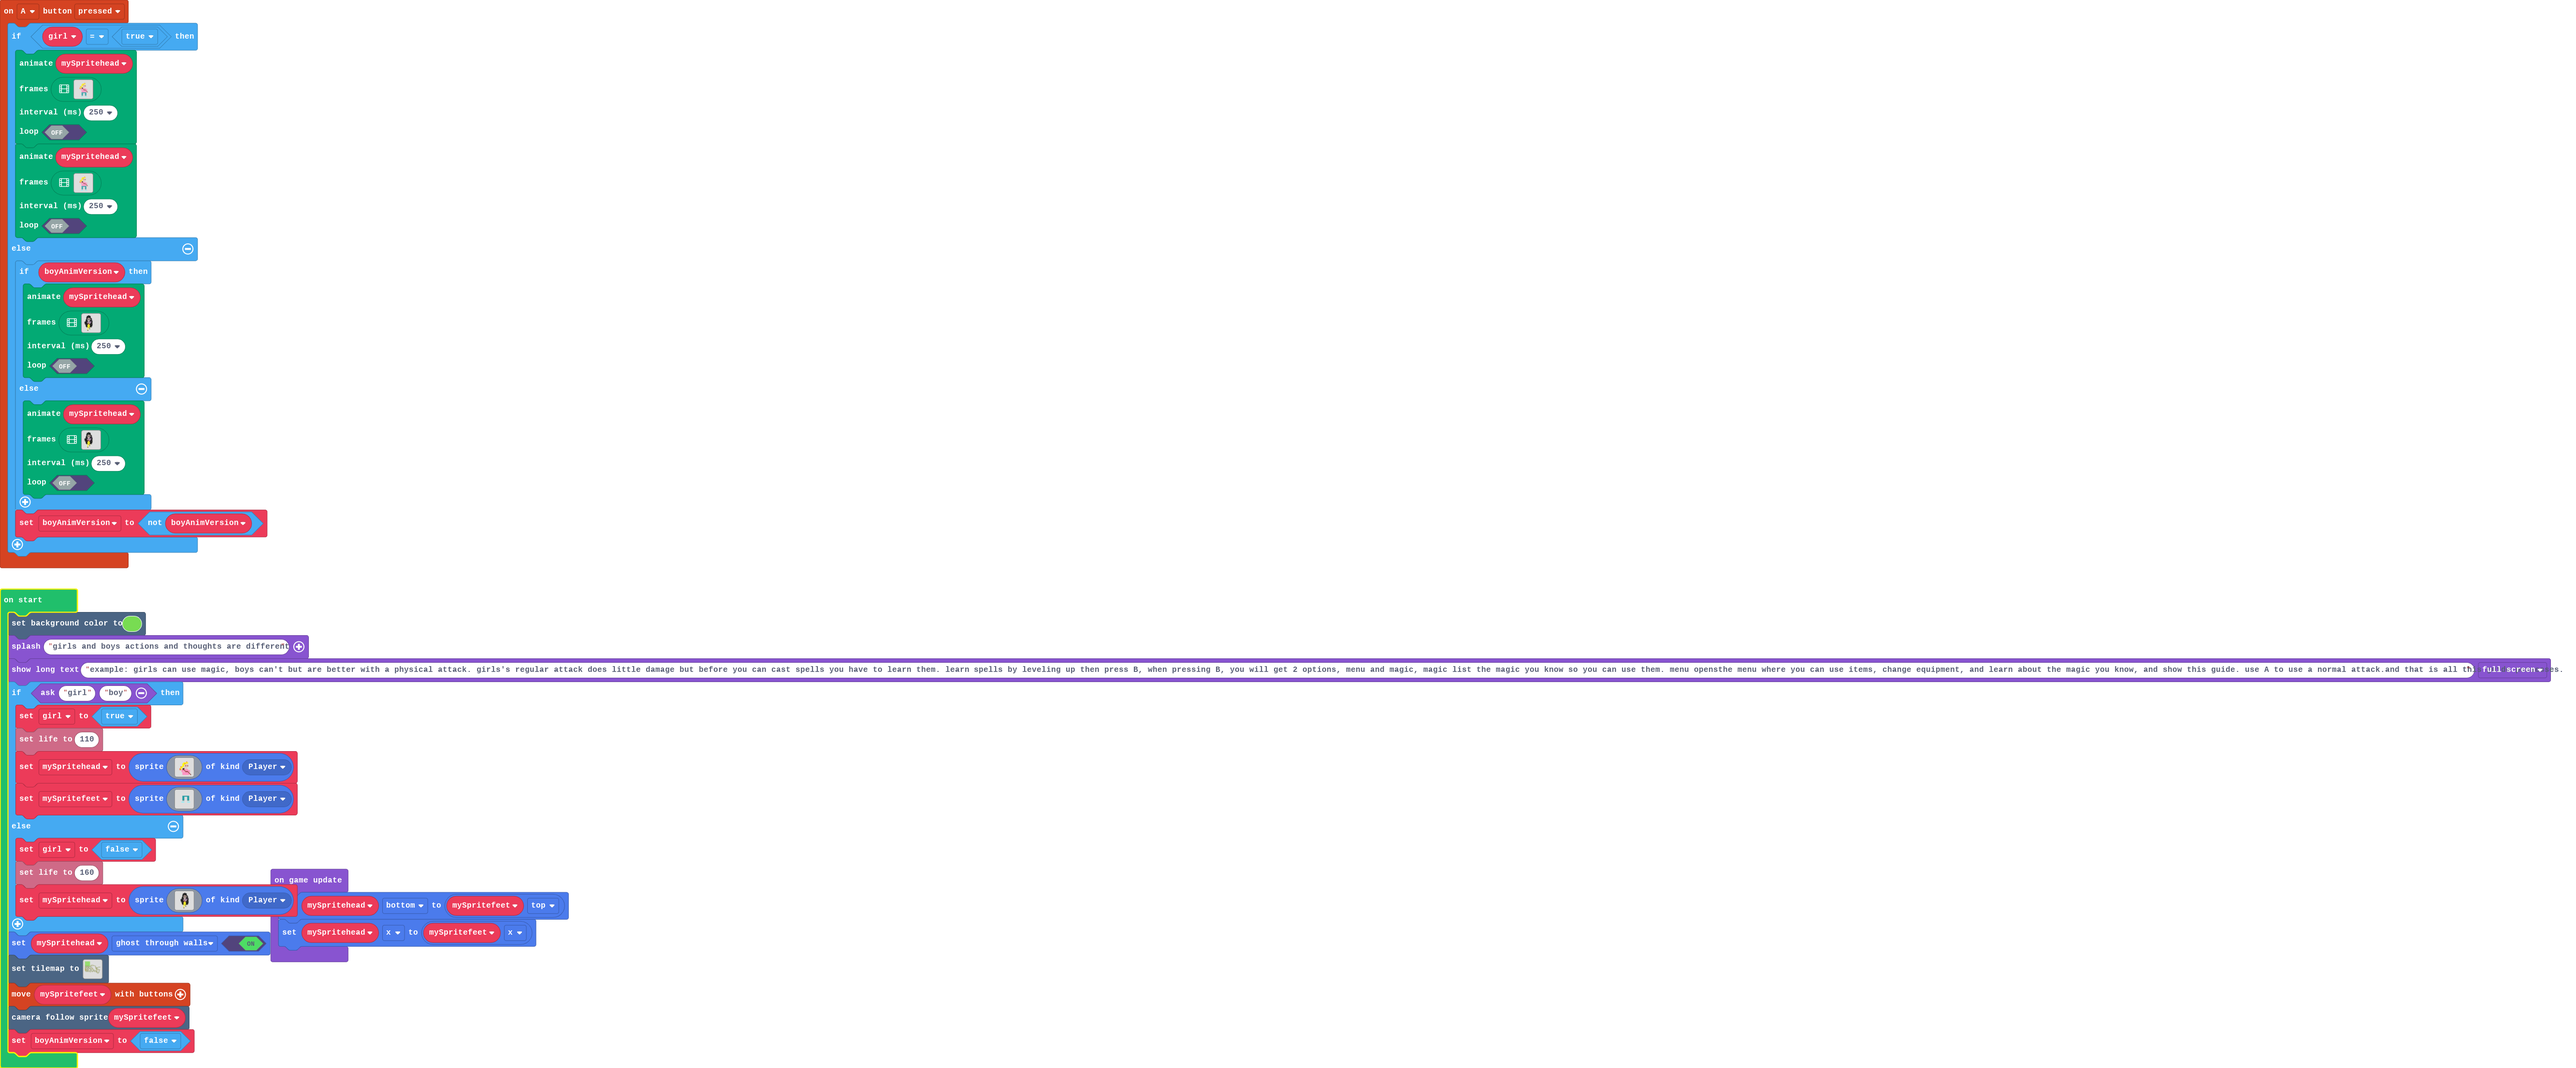
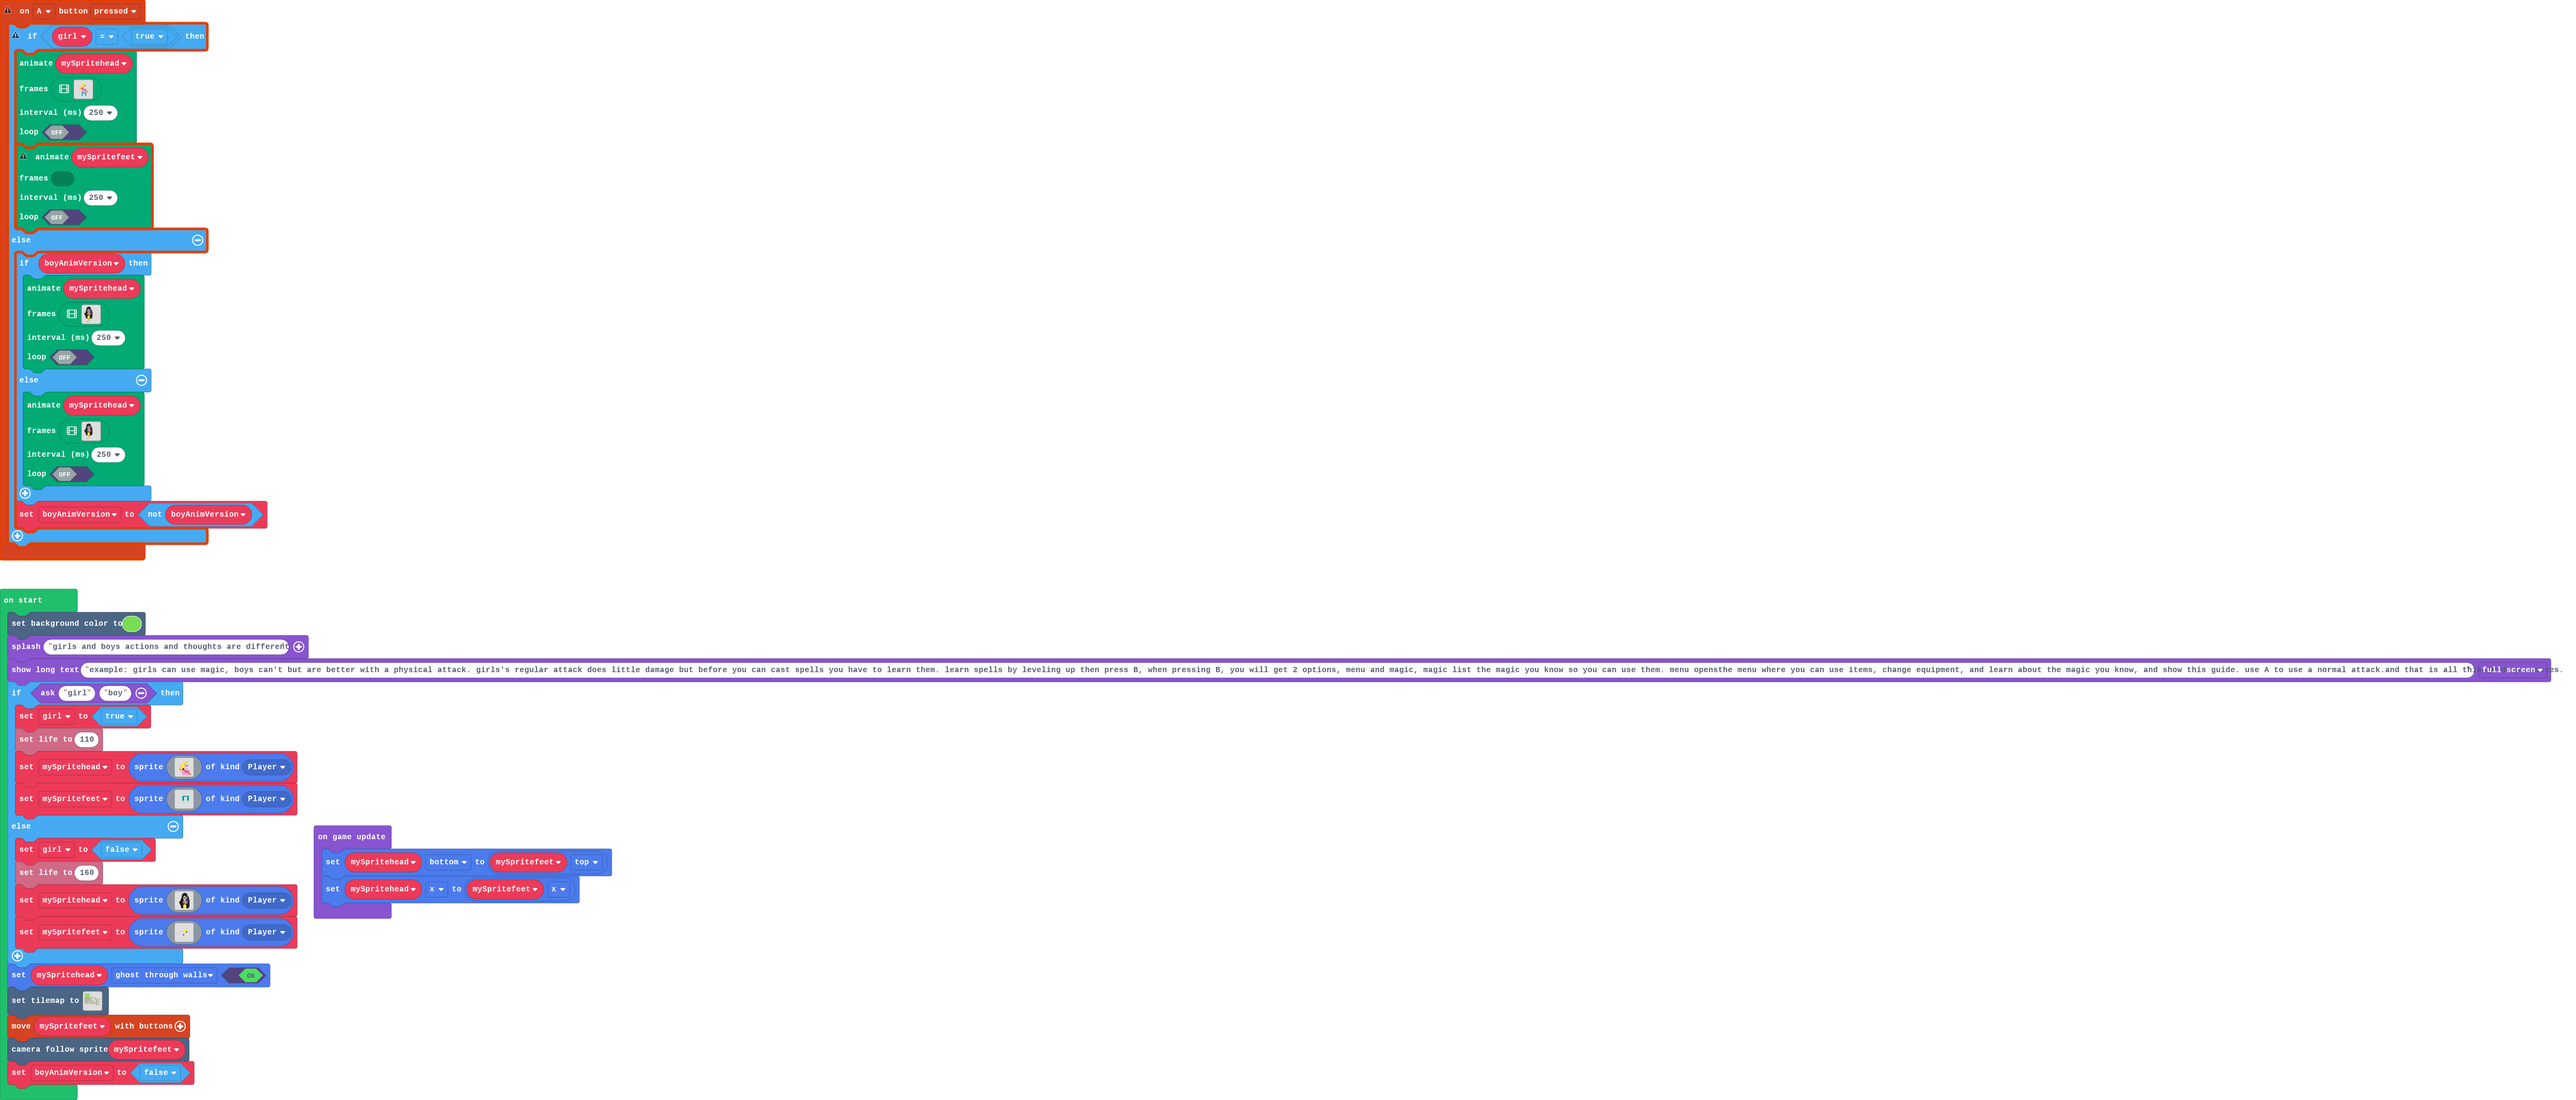
Update main.blocks, main.ts, images.g.jres, images.g.ts

Changed region(s): [[0.0, 0.0, 0.9966, 1.0]]

diff --git a/images.g.ts b/images.g.ts
@@ -3,35 +3,6 @@ namespace myImages {
 
     helpers._registerFactory("image", function(name: string) {
         switch(helpers.stringTrim(name)) {
-            case "-f[)o:Q_G$SIpaJ_tAx_":
-            case "boy":return img`
-........ff......
-......ffffff....
-......ffffff....
-.....fffffff....
-.....fffddfff...
-.....ffdededff..
-.....ffdfdfdff..
-....fffdfdfdff..
-....fffddddfffc.
-....ffffddfffcf.
-...ffffbbbbbcff.
-..fffffbbbbcbff.
-..ffffbbe1cbbff.
-..fffffeee1bfff.
-...fffffeeeffff.
-...ffffe55effff.
-....fff5555ffff.
-....fff5555ffff.
-....fff5555fff..
-.....ff5555fff..
-.......55f5.....
-.......5..5.....
-.......5..f.....
-.......5........
-.......5........
-.......f........
-`;
             case "8y:o?fww_mjqF@9FgSmE":
             case "girl Head":return img`
 . . . . . . . . . . . . . . . . 
@@ -61,134 +32,35 @@ namespace myImages {
 . . . . . . d d . . . d d . . . 
 . . . . . 9 9 9 . . . 9 9 9 . . 
 `;
+            case "-f[)o:Q_G$SIpaJ_tAx_":
+            case "boy":return img`
+........ff......
+......ffffff....
+......ffffff....
+.....fffffff....
+.....fffddfff...
+.....ffdededff..
+.....ffdfdfdff..
+....fffdfdfdff..
+....fffddddfffc.
+....ffffddfffcf.
+...ffffbbbbbcff.
+..fffffbbbbcbff.
+..ffffbbe1cbbff.
+..fffffeee1bfff.
+...fffffeeeffff.
+...ffffe55effff.
+....fff5555ffff.
+....fff5555ffff.
+....fff5555fff..
+.....ff5555fff..
+`;
         }
         return null;
     })
 
     helpers._registerFactory("animation", function(name: string) {
         switch(helpers.stringTrim(name)) {
-            case "girl animation":
-            case "wrO3jZ)BxZS6|#TFCR7c":return [img`
-................
-................
-..........4.....
-.......55555....
-......5545dd....
-......55dddd....
-......55dede....
-....455ddddd....
-....55..ddd.....
-...45.efddd.....
-...44.ee3333....
-.....333e33333..
-.....33d3eee33..
-......333333ed..
-......3333333e..
-......3333333.e.
-......6666666...
-......66...66...
-......66...66...
-......66...66...
-......66...66...
-......dd...dd...
-.....999...999..
-`, img`
-................
-................
-..........4.....
-.......55555....
-......5545dd....
-......55dddd....
-......55dddd....
-....455deded....
-....55..dddd....
-...45.efdd......
-...44.ee3333....
-.....33e333333..
-.....33de33333..
-.....333ed3333..
-.....3333e3333..
-......333e333...
-......6666666...
-......66...66...
-......66...66...
-......66...66...
-......66...66...
-......dd...dd...
-.....999...999..
-`, img`
-................
-................
-..........4.....
-.......55555....
-......5545dd....
-......55dddd....
-......55dddd....
-....455deded....
-....55..dddd....
-...45...eef.....
-...44..3eff3....
-.....333eee333..
-.....333de3333..
-.....3333e3333..
-.....3333ed333..
-......333e333...
-......6666666...
-......66...66...
-......66...66...
-......66...66...
-......66...66...
-......dd...dd...
-.....999...999..
-`, img`
-................
-................
-..........4.....
-.......55555....
-......5545dd....
-......55dddd....
-......55dddd....
-....455deded....
-....55..ddddef..
-...45...dd..ee..
-...44..3333ee...
-.....33333ee33..
-.....3333eed33..
-.....333de3333..
-.....333ee3333..
-......33e3333...
-......6666666...
-......66...66...
-......66...66...
-......66...66...
-......66...66...
-......dd...dd...
-.....999...999..
-`, img`
-................
-................
-..........4.....
-.......55555....
-......5545dd....
-......55dddd....
-......55dede....
-....455ddddd....
-....55..ddd.....
-...45.efddd.....
-...44.ee3333....
-.....333e33333..
-.....33d3eee33..
-......333333ed..
-......3333333e..
-......3333333.e.
-......6666666...
-......66...66...
-......66...66...
-......66...66...
-......66...66...
-......dd...dd...
-.....999...999..
-`];
             case "boy animation1":
             case "z":return [img`
 ........ff................
@@ -489,6 +361,128 @@ fffffffffffffffff5ff5.....
 .......5..................
 .......5..................
 .......f..................
+`];
+            case "girl animation":
+            case "wrO3jZ)BxZS6|#TFCR7c":return [img`
+................
+................
+..........4.....
+.......55555....
+......5545dd....
+......55dddd....
+......55dede....
+....455ddddd....
+....55..ddd.....
+...45.efddd.....
+...44.ee3333....
+.....333e33333..
+.....33d3eee33..
+......333333ed..
+......3333333e..
+......3333333.e.
+......6666666...
+......66...66...
+......66...66...
+......66...66...
+......66...66...
+......dd...dd...
+.....999...999..
+`, img`
+................
+................
+..........4.....
+.......55555....
+......5545dd....
+......55dddd....
+......55dddd....
+....455deded....
+....55..dddd....
+...45.efdd......
+...44.ee3333....
+.....33e333333..
+.....33de33333..
+.....333ed3333..
+.....3333e3333..
+......333e333...
+......6666666...
+......66...66...
+......66...66...
+......66...66...
+......66...66...
+......dd...dd...
+.....999...999..
+`, img`
+................
+................
+..........4.....
+.......55555....
+......5545dd....
+......55dddd....
+......55dddd....
+....455deded....
+....55..dddd....
+...45...eef.....
+...44..3eff3....
+.....333eee333..
+.....333de3333..
+.....3333e3333..
+.....3333ed333..
+......333e333...
+......6666666...
+......66...66...
+......66...66...
+......66...66...
+......66...66...
+......dd...dd...
+.....999...999..
+`, img`
+................
+................
+..........4.....
+.......55555....
+......5545dd....
+......55dddd....
+......55dddd....
+....455deded....
+....55..ddddef..
+...45...dd..ee..
+...44..3333ee...
+.....33333ee33..
+.....3333eed33..
+.....333de3333..
+.....333ee3333..
+......33e3333...
+......6666666...
+......66...66...
+......66...66...
+......66...66...
+......66...66...
+......dd...dd...
+.....999...999..
+`, img`
+................
+................
+..........4.....
+.......55555....
+......5545dd....
+......55dddd....
+......55dede....
+....455ddddd....
+....55..ddd.....
+...45.efddd.....
+...44.ee3333....
+.....333e33333..
+.....33d3eee33..
+......333333ed..
+......3333333e..
+......3333333.e.
+......6666666...
+......66...66...
+......66...66...
+......66...66...
+......66...66...
+......dd...dd...
+.....999...999..
 `];
         }
         return null;

diff --git a/main.ts b/main.ts
@@ -13,8 +13,8 @@ controller.A.onEvent(ControllerButtonEvent.Pressed, function () {
         false
         )
         animation.runImageAnimation(
-        mySpritehead,
-        assets.animation`girl animation`,
+        mySpritefeet,;
+        [0],
         250,
         false
         )
@@ -53,6 +53,14 @@ if (game.ask("girl", "boy")) {
     girl = false
     info.setLife(160)
     mySpritehead = sprites.create(assets.image`boy`, SpriteKind.Player)
+    mySpritefeet = sprites.create(img`
+        . . . . . . . 5 5 5 5 . . . . . 
+        . . . . . . . 5 . . 5 . . . . . 
+        . . . . . . . 5 . . f . . . . . 
+        . . . . . . . 5 . . . . . . . . 
+        . . . . . . . 5 . . . . . . . . 
+        . . . . . . . f . . . . . . . . 
+        `, SpriteKind.Player)
 }
 mySpritehead.setFlag(SpriteFlag.GhostThroughWalls, true)
 tiles.setTilemap(tilemap`world1`)
